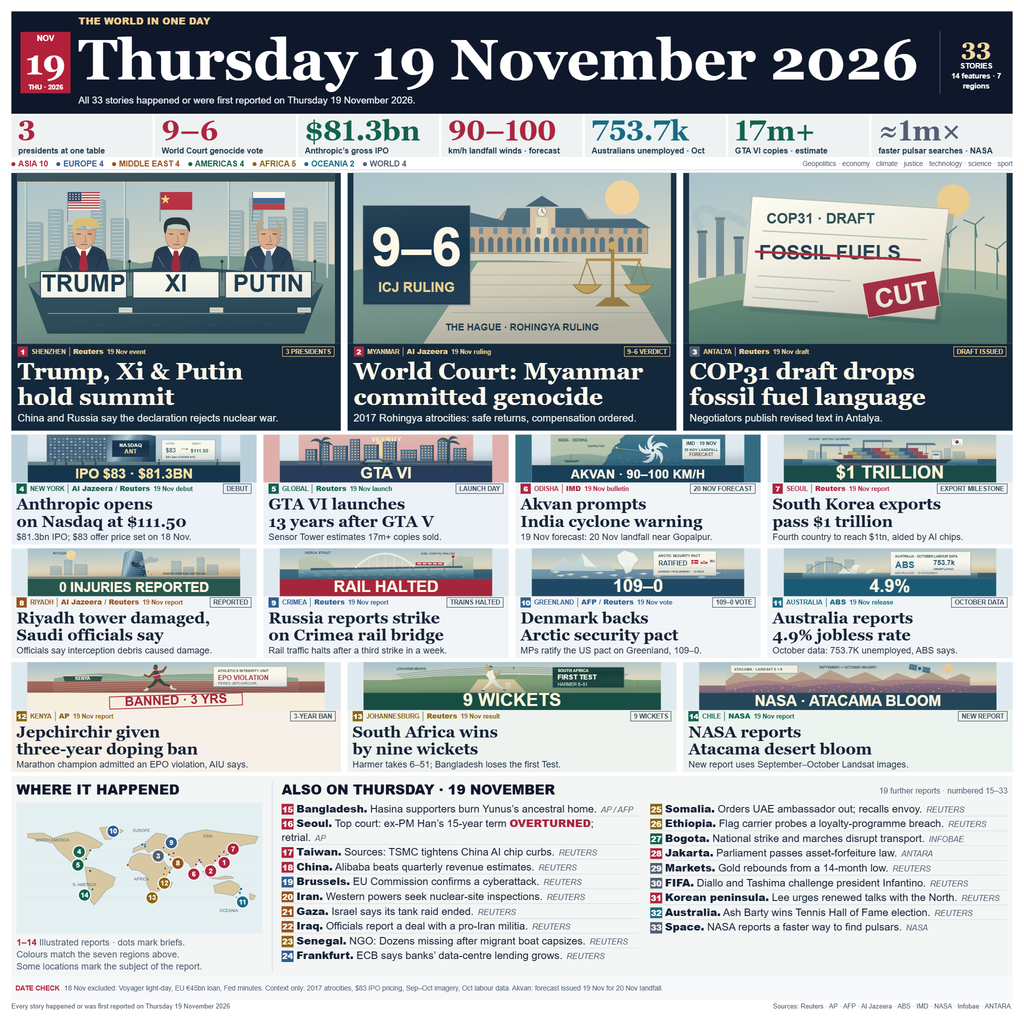
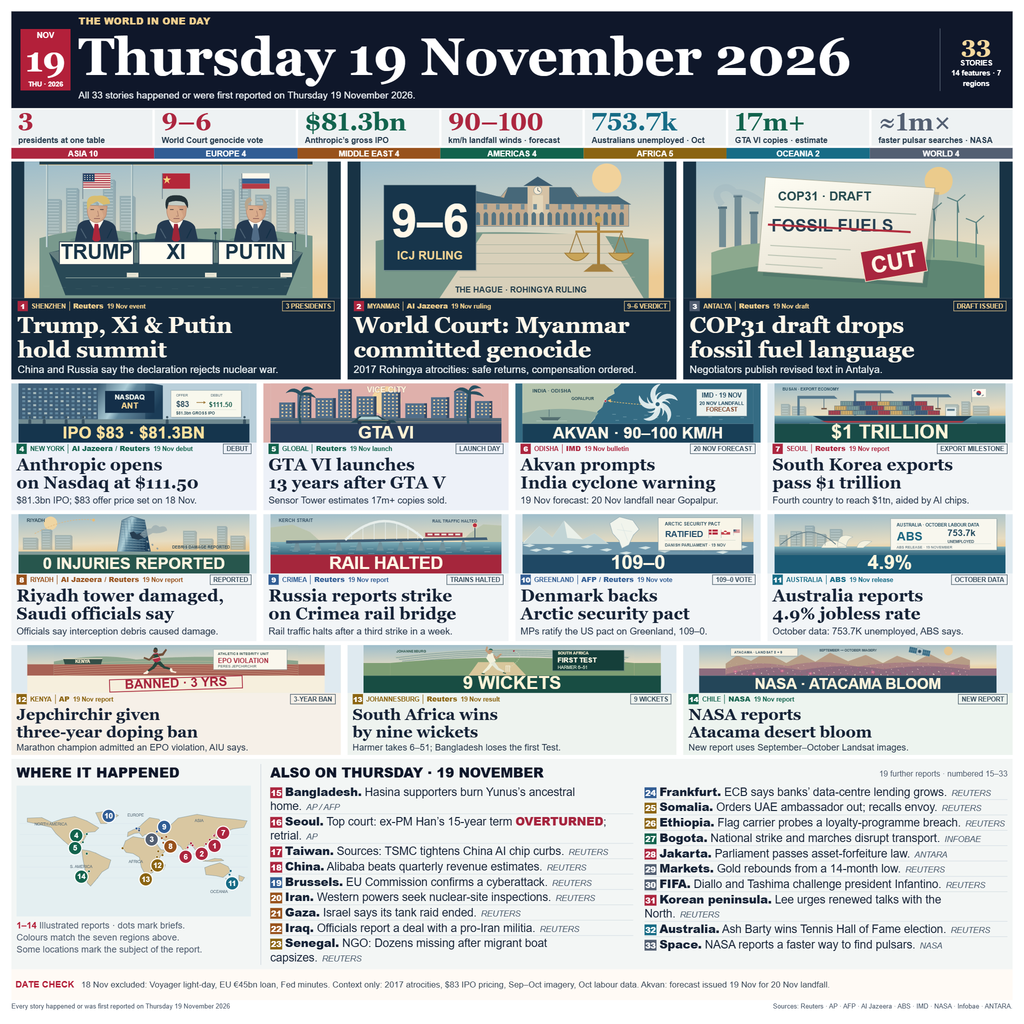
Refine news layout from prior-day visual comparisons

diff --git a/render.html b/render.html
@@ -9,24 +9,22 @@
 *{box-sizing:border-box}
 html,body{margin:0;width:1800px;height:1800px;background:var(--paper);color:var(--ink)}
 body{font-family:Arial,sans-serif;-webkit-font-smoothing:antialiased}
-.page{width:1800px;height:1800px;padding:20px;display:grid;grid-template-rows:180px 80px 24px 460px 200px 200px 200px 352px 42px 22px}
+.page{width:1800px;height:1800px;padding:20px;display:grid;grid-template-rows:170px 70px 24px 390px 230px 230px 200px 370px 54px 22px}
 .masthead{display:grid;grid-template-columns:88px minmax(0,1fr) 112px;gap:14px;background:var(--navy);color:#fff;padding:6px 16px}
 .calendar{align-self:center;background:var(--red);text-align:center;padding:3px 0;color:#fff;font-size:14px;font-weight:700;line-height:1.25}
 .calendar strong{display:block;font:700 62px/1.05 Georgia,serif;margin:1px 0}
 .calendar span:last-child{font-size:12px}
 .publication{font-size:17px;font-weight:800;letter-spacing:0.01em;color:#f0cf8f;line-height:1.25;margin:0 0 1px}
-h1{font:700 100px/1.14 Georgia,serif;margin:0 0 4px;white-space:nowrap}
+h1{font:700 92px/1.14 Georgia,serif;margin:0 0 4px;white-space:nowrap}
 .subtitle{font-size:17px;line-height:1.25;margin:0;color:#eef3f6}
 .edition{align-self:center;padding:4px 0 4px 15px;color:#fff;text-align:center;font-size:13px;font-weight:700;line-height:1.4;border-left:1px solid #657181}
 .edition strong{font:700 42px/1.1 Georgia,serif;display:block;margin-bottom:2px;color:#f4d99e}
 .numbers{display:grid;grid-template-columns:repeat(7,minmax(0,1fr));gap:4px;padding:2px 0 4px}
-.figure{background:#eef2f3;color:var(--region);display:grid;grid-template-rows:54px auto;align-content:center;padding:0 12px}
-.figure strong{font:700 50px/1.06 Georgia,serif;white-space:nowrap;font-variant-numeric:lining-nums}
+.figure{background:#eef2f3;color:var(--region);display:grid;grid-template-rows:46px auto;align-content:center;padding:0 12px}
+.figure strong{font:700 44px/1.04 Georgia,serif;white-space:nowrap;font-variant-numeric:lining-nums}
 .figure span{font-size:14px;font-weight:700;line-height:1.25;color:#24394b;white-space:nowrap}
-.regions{display:flex;gap:15px;align-items:center;border-bottom:1px solid var(--rule);padding-bottom:2px;margin-bottom:5px}
-.region{display:flex;align-items:center;gap:5px;font-size:14px;font-weight:700;white-space:nowrap;color:var(--region)}
-.region i{width:7px;height:7px;background:var(--region);border-radius:50%;display:block}
-.regions-note{margin-left:auto;font-size:12px;color:var(--muted)}
+.regions{display:grid;grid-template-columns:repeat(7,minmax(0,1fr));align-items:stretch;margin-bottom:5px}
+.region{display:flex;align-items:center;justify-content:center;font-size:14px;font-weight:700;white-space:nowrap;color:#fff;background:var(--region)}
 .stories{display:grid;gap:12px;padding-bottom:7px;min-height:0}
 .leads,.third{grid-template-columns:repeat(3,minmax(0,1fr))}
 .medium{grid-template-columns:repeat(4,minmax(0,1fr))}
@@ -36,9 +34,9 @@ h1{font:700 100px/1.14 Georgia,serif;margin:0 0 4px;white-space:nowrap}
 .story[data-story="4"],.story[data-story="5"]{background:#edf1f8}
 .story[data-story="12"]{background:#f6f0e8}
 .story[data-story="13"]{background:#eef3ef}
-.art{height:84px;flex-shrink:0;background:var(--scene-bg);position:relative;overflow:hidden}
+.art{height:104px;flex-shrink:0;background:var(--scene-bg);position:relative;overflow:hidden}
 .art svg{width:100%;height:100%;display:block}
-.leads .art{height:300px;background:#183345}
+.leads .art{height:240px;background:#183345}
 .third .art{height:84px}
 .story-copy{padding:2px 9px;min-width:0;flex:1}
 .leads .story-copy{padding:5px 11px;background:#14283b;color:#fff8eb}
@@ -51,13 +49,13 @@ h1{font:700 100px/1.14 Georgia,serif;margin:0 0 4px;white-space:nowrap}
 .citation time{font-size:11px;font-weight:700}
 .locator b{display:inline-flex;align-items:center;justify-content:center;min-width:18px;height:18px;background:var(--region);color:#fff;font-size:12px}
 .badge{margin-left:auto;display:inline-flex;flex:0 0 auto;align-items:center;justify-content:center;height:18px;padding:1px 5px;font-size:11px;font-weight:700;line-height:14px;color:#394e5d;border:1px solid currentColor;white-space:nowrap}
-h2{font:700 28px/1.08 Georgia,serif;margin:0 0 3px}
-.leads h2{font-size:42px;line-height:1.08;margin-bottom:3px}
+h2{font:700 30px/1.08 Georgia,serif;margin:0 0 3px}
+.leads h2{font-size:40px;line-height:1.08;margin-bottom:3px}
 .third h2{font-size:28px;line-height:1.08}
-.summary{font-size:16px;line-height:1.25;margin:0;color:#213246}
+.summary{font-size:16.5px;line-height:1.25;margin:0;color:#213246}
 .leads .summary{font-size:18px;line-height:1.25;color:#edf3f5}
 .third .summary{font-size:16px}
-.bottom{display:grid;grid-template-columns:450px minmax(0,1fr);gap:16px;padding:9px;min-height:0;background:#f3f6f5}
+.bottom{display:grid;grid-template-columns:430px minmax(0,1fr);gap:16px;padding:9px;min-height:0;background:#f3f6f5}
 .map-panel{border-right:1px solid var(--rule);padding-right:17px;min-width:0}
 h3{font-size:24px;line-height:1.25;color:var(--navy);margin:0 0 8px;font-weight:800}
 .map{height:230px;background:#e4eff1}
@@ -70,16 +68,16 @@ h3{font-size:24px;line-height:1.25;color:var(--navy);margin:0 0 8px;font-weight:
 .brief-heading span{font-size:14px;color:var(--muted);line-height:1.25}
 .briefs{display:grid;grid-template-columns:repeat(2,minmax(0,1fr));column-gap:20px}
 .brief-column{display:grid;grid-auto-rows:max-content;row-gap:0;min-width:0}
-.brief{display:block;font-size:18.5px;line-height:1.3;min-width:0;margin:0;padding:0;border-bottom:1px solid #d6dfe4}
+.brief{display:block;font-size:20px;line-height:1.25;min-width:0;margin:0;padding:0;border-bottom:1px solid #d6dfe4}
 .brief:last-child{border-bottom:0}
 .brief b{font-weight:800}
 .brief .id{display:inline-block;min-width:21px;margin-right:5px;vertical-align:baseline;font-size:14px;font-weight:800;line-height:1.4;color:#fff;background:var(--region);text-align:center}
 .brief-status{color:#a6243e;font-weight:800}
 .brief-copy{display:inline;min-width:0}
 .brief-ending{white-space:nowrap}
-.brief .source{display:inline;margin-left:2px;font-size:14px;line-height:1.3;white-space:nowrap;font-weight:400;font-style:italic;color:#465769}
-.date-check{display:flex;align-items:center;gap:8px;background:#f6f8fa;color:#536174;font-size:12px;line-height:1.25;padding:3px 7px}
-.date-check strong{font-size:12px;color:var(--red);white-space:nowrap}
+.brief .source{display:inline;margin-left:2px;font-size:14.5px;line-height:1.28;white-space:nowrap;font-weight:400;font-style:italic;color:#465769}
+.date-check{display:flex;align-items:center;gap:12px;background:#fffaf5;color:#384756;font-size:15px;line-height:1.25;padding:3px 7px}
+.date-check strong{font-size:16px;color:var(--red);white-space:nowrap}
 .footer{display:flex;align-items:center;justify-content:space-between;gap:12px;font-size:11.5px;line-height:1.25;color:#465466}
 .footer p{margin:0}
 </style>
@@ -94,7 +92,7 @@ h3{font-size:24px;line-height:1.25;color:var(--navy);margin:0 0 8px;font-weight:
     <div class="edition"><strong>33</strong>STORIES<br>14 features · 7 regions</div>
   </header>
   <section class="numbers" aria-label="Seven numbers that defined the day"><!-- FIGURES --></section>
-  <div class="regions"><!-- REGIONS --><span class="regions-note">Geopolitics · economy · climate · justice · technology · science · sport</span></div>
+  <div class="regions" aria-label="Story counts in seven regions"><!-- REGIONS --></div>
   <section class="stories leads" aria-label="The three lead stories"><!-- LEADS --></section>
   <section class="stories medium" aria-label="Economy, technology and weather"><!-- SECOND --></section>
   <section class="stories medium" aria-label="Security and livelihoods"><!-- THIRD --></section>

diff --git a/AUDIT.md b/AUDIT.md
@@ -1,5 +1,47 @@
 # Review checkpoint · 19 November 2026
 
+## November 18 reference study and local revision · 20 November 2026
+
+The requested public `news-image-20261118` top three were fetched twice, with unchanged rank order and rates, into `G:\kits\news-image-20261119-samples\`. Files `nov18-top1.png` through `nov18-top3.png`, `nov18-leaderboard.json`, `nov18-verdict-summary.json`, `nov18-comparison-native.png` and `nov18-comparison-300.png` all remain outside this repository. The sheets compare the exact image from **c691ae9**, the new candidate, and the three references. Native samples retain their original pixels; each thumbnail is exactly 300 px wide. No rival account names, code or artwork were inserted into the entry.
+
+| Public reference | Development rate | 90% interval | Image | Recorded margins, 24 calls |
+| --- | --- | --- | --- | --- |
+| #1 | 99.2304% | 99.0261–99.4347% | 1024 × 1024 | 12 × 5, 10 × 4, 2 × 3 |
+| #2 | 99.1676% | 98.9469–99.3884% | 1024 × 1024 | 8 × 5, 12 × 4, 4 × 3 |
+| #3 | 99.1513% | 98.9298–99.3728% | 1024 × 1024 | 9 × 5, 8 × 4, 7 × 3 |
+
+All 24 calls per reference were wins against house images: 8 anchor calls and 16 rung calls. These are not direct #1-versus-#2/#3 verdicts. The #1 rate leads #2 by 0.0628 percentage points and #3 by 0.0791; their intervals overlap. Recorded reasons repeatedly prioritize an explicit date, geographically broad selection and faithful date exclusions, then praise coherent composition. Some even prefer a house image's thumbnail craft while awarding the reference the win for breadth. Thus neither these rates nor margins isolate typography, stamp size or layout as the causal advantage. The API still returns the Development board; this is not a claim about final placements.
+
+Direct visual inspection finds all canvases square, so aspect ratio does not explain the ranking. Reference #1 has substantial supporting image areas, a quiet two-column lower list and a visibly separated date-check box. Reference #2 makes individual image labels especially large yet ranks lower, so maximum stamp size alone does not explain #1. Exact reference font sizes cannot be recovered from raster images. Our revision adopts the observable layout patterns using our own existing artwork and preserves **stories.mjs and SOURCES.md byte-for-byte against c691ae9**, all 33 reports, 7 regions, 14 features, 19 briefs, source qualifiers and DATE CHECK exclusions.
+
+Compared with c691ae9, the authored date rises from 60 to **92 px**, supporting headlines 26 to **30 px**, final-row headlines 26 to **28 px**, and briefs 17 to **20 px**. The bottom list moves from three narrow columns to two wider columns with trailing source credits. Its final distribution is 9 and 10 records; 15 briefs occupy one line and four occupy two. At 300 px the date is **15.33 px**, lead headlines **6.67 px**, supporting headlines **5 px**, and briefs **3.33 px**; complete brief prose is still a full-size reading layer. The source canvas remains 1800 square, captured at 2048 and downsampled to 1024.
+
+Supporting SVG compositions grow from a 115-unit scene plus 65-unit label to **140 + 65 units**, with a 104 px slot instead of the baseline's 120 px letterboxed slot. Their effective displayed scene height grows from approximately 88–91 to 104 authored px. The 84 px slot mentioned in the earlier progress update belonged to e768cbb, not c691ae9. Selected image labels increase in size; map badges grow from radius 15 to **17**, numerals 17 to **19**, and DATE CHECK body type 12 to **15 px**. The seven-region strip is continuous and labelled. A translucent decorative finish was removed to sharpen flat colours and stay below 900 KB. Anti-slop's deterministic fixer removed the filled date box's redundant border; its larger text and separate background retain the date-check hierarchy.
+
[1 lines of base64/hex data omitted]
+
+Anti-slop verdict: **PASS**, severity **0**, gating **0**, advisories **57**, external stylesheets **0** after its automatic fix.
+
+| Guard | Hits | Action | Why it matters |
+| --- | --- | --- | --- |
+| `redundant-border` | 1 → 0 | Applied the detector's removal of the date-check border | The separate background already defines the box |
+| `row-kicker-eyebrow` | 18 | Retained as editorial metadata advisories | Location and source labels identify the reports |
+| `overstuffed-row` | 39 | Retained as density advisories; checked at native and 300 px | Detailed prose remains a full-size reading layer |
+
+Three visual review checkpoints were completed, including an initial composition, larger supporting headlines, then larger map labels and date-check copy with rebalanced briefs. The final local comparison before the border-only automatic cleanup scored **52/100 Groq** and **68/100 Mistral** against reference #1; both report UPGRADE_REQUIRED. Some criticism invents factual geography (COP31 in Antarctica) or overlooks existing elements, so these are limited design opinions, not source verification or official grading. Measured readability improvements are established; a decisive jury win is not. The final artifact is held for the requested local review, without push or submission.
+
+## Resumed verification · 20 November 2026, 12:34 UTC
+
+The recovered candidate is commit `e768cbb`, one local commit ahead of `origin/main`. A fresh public leaderboard check still places our submitted `c691ae9` image, **Mindful Flux**, submission `01a1f876-324c-75be-aded-c6dd61de386c`, at development rank **3**, **99.2254%**, against the leader's **99.2344%**. Their intervals overlap. The candidate itself remains unsubmitted and has no official score.
+
[1 lines of base64/hex data omitted]
+
+Anti-slop verdict: **PASS**, severity **0**, gating **0**, advisory **57**, external stylesheets **0**. `row-kicker-eyebrow` accounts for 18 advisories and `overstuffed-row` for 39. These flag the deliberate dense editorial cards and their source/location labels; no gating rewrite is required.
+
+Fresh comparisons against the retained public #1 image return **58/100** from Groq (`qwen/qwen3.8-27b`) and **88/100** from Mistral (`ministral-14b-2512`, after the preferred model returned HTTP 429). Both report `UPGRADE_REQUIRED`. Groq alleges a cropped date; direct inspection shows the complete date inside the masthead, and browser geometry reports no clipping. The critiques still identify dense supporting copy and weak thumbnail readability. They do not establish a decisive improvement over #1. Earlier optimization passes remain documented below.
+
+The official kit preflight on `e768cbb` using the existing `square-transcripts.tar.gz` passes **13 checks, 0 failures**, with 6 skips and 5 checks deferred to submission. That older bundle reports **72.6% authored** and **14.6% unwritten** lines against this candidate; it is a diagnostic checkpoint, not a replacement for bundling every session before submission. Logs for this continuation are ignored under `.makefun-kit/`: `last-run.log`, `linux-resumed.log`, `anti-slop-resumed.json`, `vision-resumed.log`, `vision-resumed-second.log` and `preflight-resumed.log`. No new submission or push was performed in this continuation. The deadline is **21 November 2026, 00:00 UTC**.
+
 ## Local readability candidate compared with c691ae9
 
[1 lines of base64/hex data omitted]

diff --git a/README.md b/README.md
@@ -53,7 +53,7 @@ NASA's new Atacama report is dated 19 November. Its September and October satell
 
 The date banner excludes the 18 November Voyager milestone, EU €45bn loan proposal, and Fed minutes. Fiji's drought declaration is also excluded because the article dates the address to Wednesday. The IMD bulletin dated November 19 places Akvan offshore and forecasts a Friday landfall; the image labels that distinction. Australia's unemployment figure is October data released November 19, not a single-day unemployment measure.
 
-The three lead stories are followed by two rows of four cards and a final row of three, with 19 additional briefs in two columns. The date uses 100 px type, lead headlines 42 px, and supporting headlines 28 px. Brief text is 18.5 px, with inline italic source credits; each credit stays with the final word of its report. This increases the effective line width and avoids isolated source-only lines. The brief list includes the Han retrial order, Bogota's national strike, Jakarta's asset-forfeiture law and Somalia's expulsion order. Numbers, card labels and map pins share region colours. Forecast winds, October unemployment, earlier imagery and estimates remain labelled. The 300 px preview primarily conveys the date, key figures, illustrated labels and headline hierarchy; full supporting copy is intended for the larger image.
+The three lead stories are followed by two rows of four cards and a final row of three, with 19 additional briefs in two columns. The date uses 92 px type, lead headlines 40 px, supporting headlines 30 px and final-row headlines 28 px. Brief text is 20 px, with inline italic source credits; each credit stays with the final word of its report. These are authored sizes on the 1800 px canvas. At 300 px, the date is 15.33 px, supporting headlines 5 px and briefs 3.33 px, so full supporting prose still requires the larger image. The brief list includes the Han retrial order, Bogota's national strike, Jakarta's asset-forfeiture law and Somalia's expulsion order. The seven regions now form a continuous labelled strip. Supporting scenes use taller compositions and stronger numerical labels, while map numerals and DATE CHECK text are enlarged. Forecast winds, October unemployment, earlier imagery and estimates remain labelled. The 300 px preview primarily conveys the date, key figures, illustrated labels and headline hierarchy.
 
 The COP31 illustration does not assert the requested $120bn aid deletion: that exact figure was not substantiated in the accessible November 19 reports checked. The Riyadh label states **0 injuries reported**, following the source, rather than broadening it to zero casualties.
 
